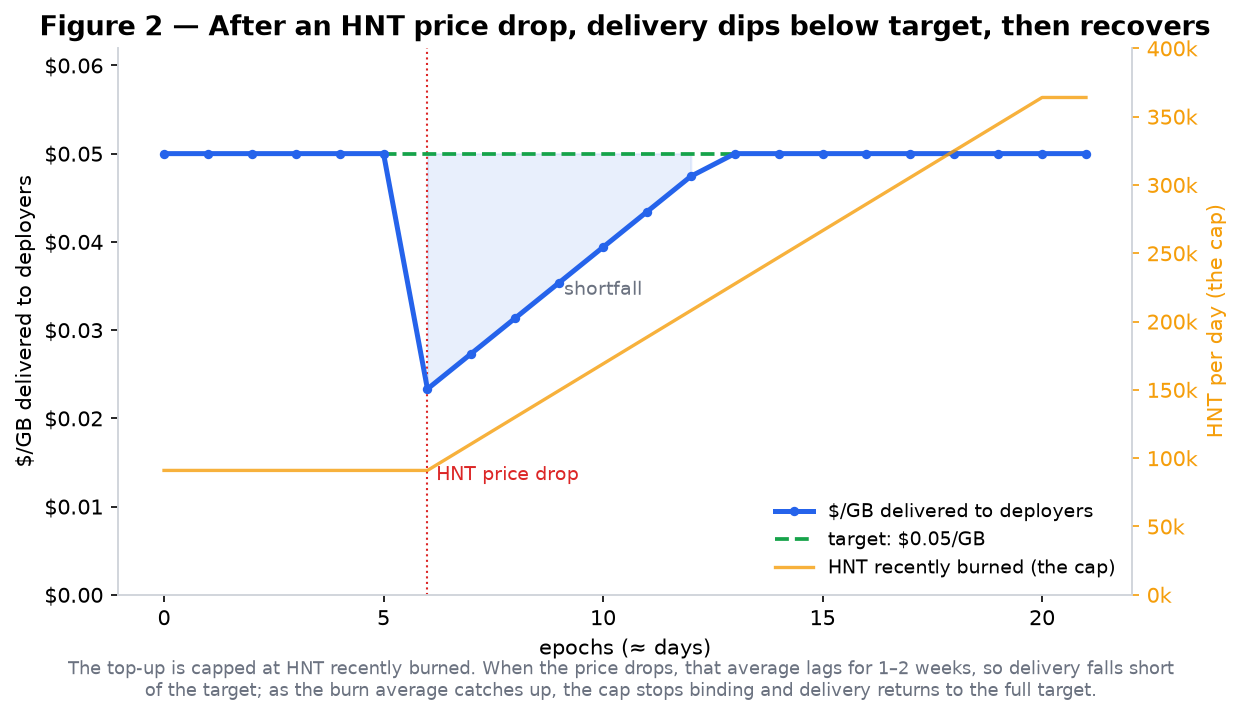
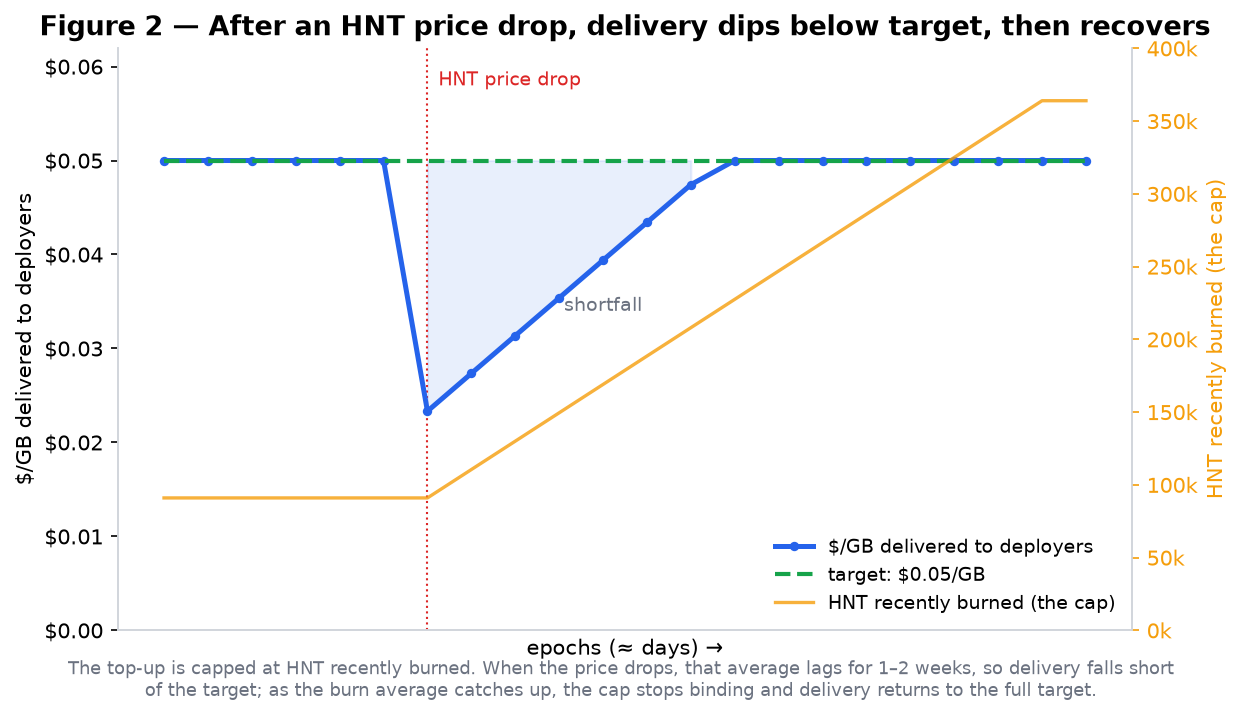
HIP 149: refine Figure 2 per review
- Drop x-axis epoch numbers (illustrative, not a predicted timeline)
- Relabel right axis 'HNT recently burned (the cap)' to match the legend;
  'HNT per day' read as HNT paid out
- Draw the target line on top so it stays visible the whole time, making
  clear the target never moves while delivery dips
- Move the 'HNT price drop' label up by the red line, off the orange line

diff --git a/files/0149/figures.py b/files/0149/figures.py
@@ -117,18 +117,19 @@ def figure_two():
     fig, ax = plt.subplots(figsize=(8.4, 4.6))
     ax.plot(epochs, delivered, color=TOPUP, lw=2.4, marker="o", ms=3.5,
             label="$/GB delivered to deployers", zorder=3)
-    ax.plot(epochs, target, color=TARGET, lw=1.8, ls="--", label="target: $0.05/GB", zorder=2)
+    # Target drawn on top so it stays visible even where delivery sits on it.
+    ax.plot(epochs, target, color=TARGET, lw=2.0, ls="--", label="target: $0.05/GB", zorder=5)
     ax.fill_between(epochs, delivered, target, where=[d < t for d, t in zip(delivered, target)],
                     color=TOPUP, alpha=0.10, zorder=1)
 
     ax.axvline(crash, color="#dc2626", lw=1, ls=":", zorder=1)
-    ax.annotate("HNT price drop", (crash, 0.013), color="#dc2626", fontsize=9,
-                ha="left", xytext=(crash + 0.2, 0.013))
+    ax.annotate("HNT price drop", (crash + 0.25, 0.058), color="#dc2626", fontsize=9, ha="left")
     ax.annotate("shortfall", ((crash + 12) / 2 + 1, 0.034), color=MUTED, fontsize=9, ha="center")
 
-    ax.set_xlabel("epochs (≈ days)")
+    ax.set_xlabel("epochs (≈ days) →")
     ax.set_ylabel("$/GB delivered to deployers")
     ax.set_ylim(0, 0.062)
+    ax.set_xticks([])
     ax.yaxis.set_major_formatter(FuncFormatter(lambda v, p: f"${v:.2f}"))
     ax.set_title("Figure 2 — After an HNT price drop, delivery dips below target, then recovers")
     ax.spines[["top"]].set_visible(False)
@@ -136,7 +137,7 @@ def figure_two():
     ax2 = ax.twinx()
     ax2.plot(epochs, burn, color=CAP, lw=1.6, ls="-", alpha=0.8,
              label="HNT recently burned (the cap)")
-    ax2.set_ylabel("HNT per day (the cap)", color=CAP)
+    ax2.set_ylabel("HNT recently burned (the cap)", color=CAP)
     ax2.tick_params(axis="y", colors=CAP)
     ax2.yaxis.set_major_formatter(FuncFormatter(thousands))
     ax2.set_ylim(0, cap_for(0.025) * 1.1)